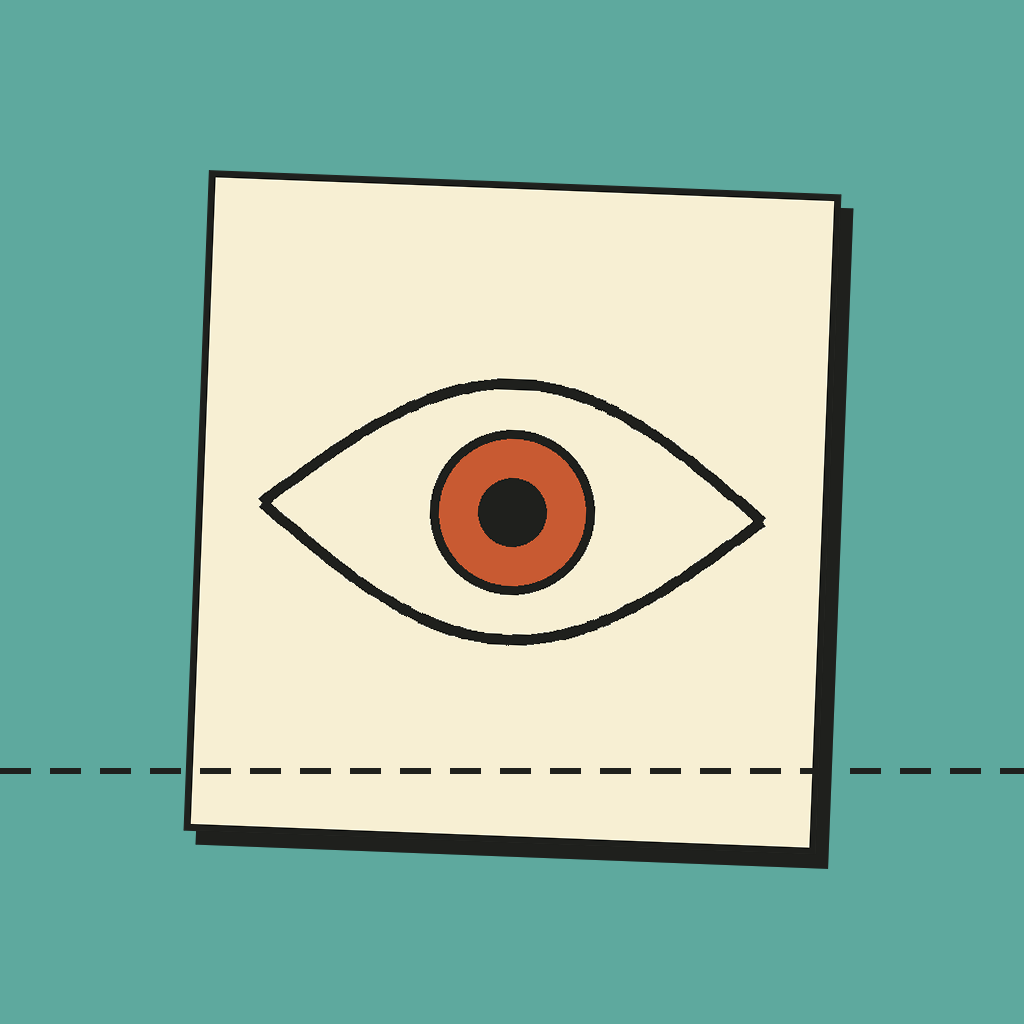
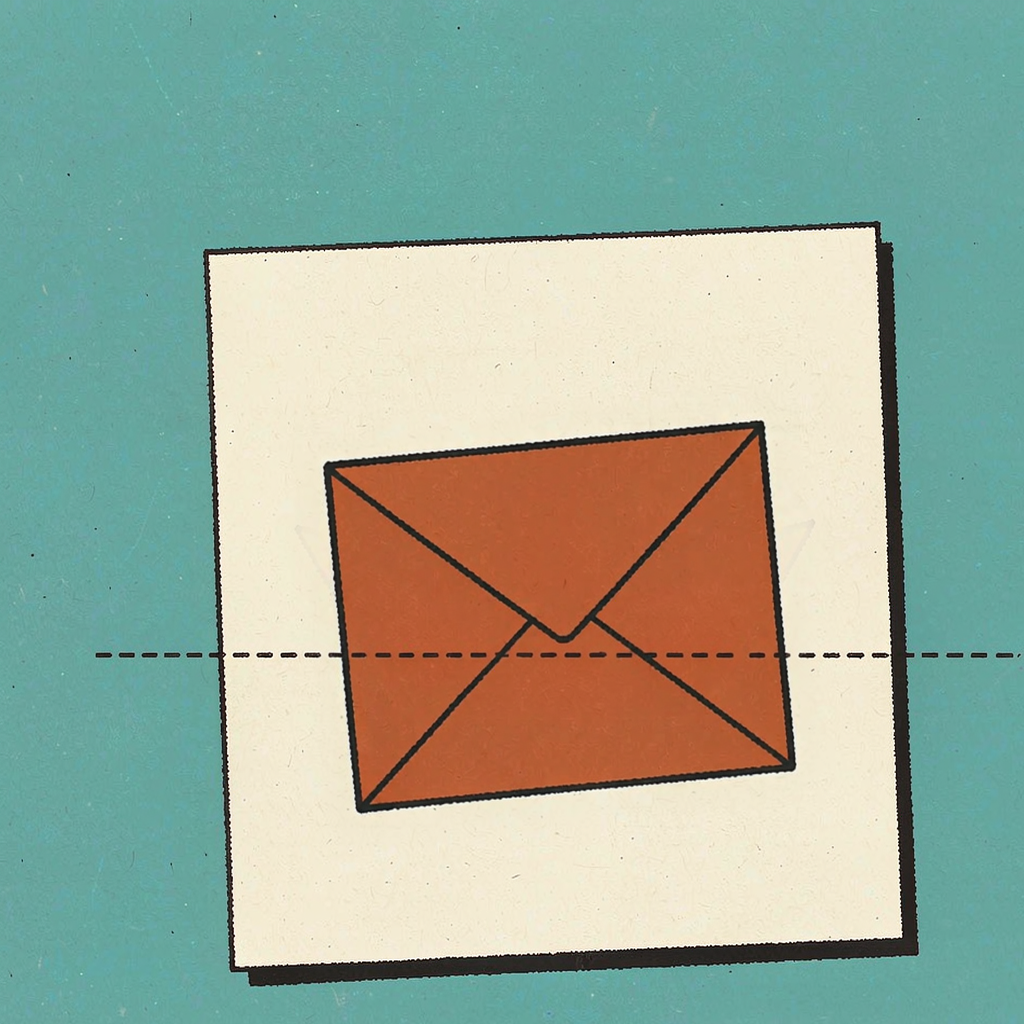
BCM241 polish: swap A4 cover to envelope, split FIG.01 into three plates, embed A3 video in A4, relabel A3 as A2.2

diff --git a/content.js b/content.js
@@ -971,7 +971,7 @@ const SUBJECTS = {
         },
         date: '2026-11-05',
         tags: [
-          { en: 'BCM241 A2', zh: 'BCM241 A2' },
+          { en: 'BCM241 A2.2', zh: 'BCM241 A2.2' },
           { en: 'Blog Post 2', zh: '部落格貼文 2' },
           { en: 'Autoethnography', zh: '自我民族誌' },
         ],
@@ -1125,7 +1125,7 @@ const SUBJECTS = {
         /* 同 bcm241 前三篇：文章頁不渲染開場主圖；image 只供科目頁卡片縮圖。 */
         noHero: true,
         image: 'assets/posts/bcm241-a4-cover.png',
-        figLabel: { en: 'COVER — The ethnographic gaze', zh: '封面圖 — 民族誌的注視' },
+        figLabel: { en: 'COVER — Report submitted', zh: '封面圖 — 報告已交付' },
         body: [
           { type: 'h2', text: { en: 'Introduction', zh: '導論' } },
           {
@@ -1143,18 +1143,47 @@ const SUBJECTS = {
               zh: '為了在這個領域建立可信度，我在抖音、小紅書與微信視頻號上建構了一個統一的線上人格「紙上麥哲倫」。三個頻道共用一致的視覺識別：奶油色漫畫封面，粗黑標題壓在黃色重點上。自介把帳號定位成一位清晰、專業的同儕觀察者，用「一杯咖啡的時間」講清跨境邏輯，不做誇大的推銷。以 Moore、Barbour 與 Lee（2017）的線上人格五個維度來看，這個身分是刻意公開、媒介化且表演性的，同時又因邀請同儕一起學習而帶有集體性。它與我日常的社群使用形成強烈對比：私人生活裡我只是被動地滑影片找樂子，從不去想訊息是怎麼被建構出來的；但當我以「紙上麥哲倫」運作時，我得主動拆解視覺節奏、聲音提示與腳本韻律，把複雜的 B2B 概念轉譯成觀眾容易入口的故事。',
             },
           },
+          /* ·42：原稿 Figure 1 是三平台主頁「極寬拼圖」（1800×348），
+             網站上縮到版心後每格只剩一百多像素、字全糊。Master 改提供三張
+             獨立截圖，拆成三張各自鋪滿版心的 wide 圖，圖號順延為 01–03，
+             原 Figure 2/3 改 04/05。三張共用同一句統一識別的說明。 */
           {
-            /* 原稿 Figure 1：三平台主頁拼圖，極寬（1800×348）→ wide。 */
             type: 'figure',
             wide: true,
-            src: 'assets/posts/bcm241-a4-fig1.png',
+            src: 'assets/posts/bcm241-a4-fig1-douyin.png',
             alt: {
-              en: 'Three "Paper Magellan" creator homepages side by side: Douyin on the left with a dark grid of comic covers, WeChat Video in the middle with a light grid, and Xiaohongshu on the right with account analytics and a note list. All three share the same cream comic covers and bold black titles.',
-              zh: '三個「紙上麥哲倫」創作者主頁並排：左為抖音的深色漫畫封面網格，中為微信視頻號的淺色網格，右為小紅書的帳號數據與筆記列表；三者共用相同的奶油色漫畫封面與粗黑標題。',
+              en: 'Douyin creator homepage for "Paper Magellan": a dark grid of cream comic covers with bold black titles, with follower and like counts above.',
+              zh: '抖音「紙上麥哲倫」創作者主頁：深色背景上的奶油色漫畫封面網格與粗黑標題，上方為粉絲與按讚數據。',
             },
             caption: {
-              en: 'FIG.01 — Unified "Paper Magellan" creator profiles across Douyin, Xiaohongshu, and WeChat Video.',
-              zh: 'FIG.01 — 「紙上麥哲倫」在抖音、小紅書與微信視頻號上統一的創作者主頁。',
+              en: 'FIG.01 — "Paper Magellan" creator homepage on Douyin: a dark grid of comic covers with matching titles.',
+              zh: 'FIG.01 — 抖音上的「紙上麥哲倫」創作者主頁：深色網格中一致的漫畫封面與標題。',
+            },
+          },
+          {
+            type: 'figure',
+            wide: true,
+            src: 'assets/posts/bcm241-a4-fig1-xhs.png',
+            alt: {
+              en: 'Xiaohongshu creator homepage for "Paper Magellan": a light grid of the same cream comic covers, with profile details and note counts above.',
+              zh: '小紅書「紙上麥哲倫」創作者主頁：淺色背景上同一套奶油色漫畫封面，上方為帳號資料與筆記數。',
+            },
+            caption: {
+              en: 'FIG.02 — The same persona on Xiaohongshu: identical covers carried across to a light-themed profile.',
+              zh: 'FIG.02 — 小紅書上的同一個身分：相同封面延伸到淺色主題的個人主頁。',
+            },
+          },
+          {
+            type: 'figure',
+            wide: true,
+            src: 'assets/posts/bcm241-a4-fig1-wechat.png',
+            alt: {
+              en: 'WeChat Video creator centre for "Paper Magellan": account overview and yesterday\'s data, including new followers, plays, likes and comments.',
+              zh: '微信視頻號「紙上麥哲倫」創作者中心：帳號概覽與昨日數據，包含淨增關注、新增播放、點讚與評論。',
+            },
+            caption: {
+              en: 'FIG.03 — WeChat Video creator centre: the third channel of the same persona, with its own audience metrics.',
+              zh: 'FIG.03 — 微信視頻號創作者中心：同一身分的第三個頻道，附獨立觀眾數據。',
             },
           },
           { type: 'h2', text: { en: 'Key Epiphanies', zh: '關鍵頓悟' } },
@@ -1190,8 +1219,8 @@ const SUBJECTS = {
               zh: '小紅書創作服務平台的帳號診斷（11/10–11/16）：觀看數 3,990、互動 212、漲粉 36、主頁訪客 42、發布 3 篇，多項超過 99% 同類創作者；下方筆記數據顯示曝光 1.4 萬、封面點擊率 12.6%、平均觀看 41 秒、觀看總時長 31.1 小時。',
             },
             caption: {
-              en: 'FIG.02 — Xiaohongshu creator analytics dashboard confirming strong cover click-through and peer-leading engagement.',
-              zh: 'FIG.02 — 小紅書創作者後台，印證封面點擊率與領先同儕的互動表現。',
+              en: 'FIG.04 — Xiaohongshu creator analytics dashboard confirming strong cover click-through and peer-leading engagement.',
+              zh: 'FIG.04 — 小紅書創作者後台，印證封面點擊率與領先同儕的互動表現。',
             },
           },
           {
@@ -1233,8 +1262,8 @@ const SUBJECTS = {
               zh: '後台列出四支影片的逐片數據：〈逃命滑板〉1,596 播放、6.72% 完播、35.81% 兩秒跳出；〈一星負評〉5,372 播放、12.26%、32.4%；〈放棄亞馬遜改做 DTC〉591 播放、1.09%、51.22%；〈只做 100 件？〉4,986 播放、4.43%、41.01%。各片的收藏、分享與吸粉量差異明顯。',
             },
             caption: {
-              en: 'FIG.03 — Video-level backend retention and bounce rate comparison used to diagnose pacing and opening hooks.',
-              zh: 'FIG.03 — 逐支影片的後台完播率與跳出率對比，用來診斷節奏與開場鉤子。',
+              en: 'FIG.05 — Video-level backend retention and bounce rate comparison used to diagnose pacing and opening hooks.',
+              zh: 'FIG.05 — 逐支影片的後台完播率與跳出率對比，用來診斷節奏與開場鉤子。',
             },
           },
           {
@@ -1330,6 +1359,24 @@ const SUBJECTS = {
             note: {
               en: 'Explains the fast, recognizable rhythms that short-video communicative forms rely on.',
               zh: '解釋短影片溝通形式為何依賴快速、可辨識的節奏。',
+            },
+          },
+          /* ·42：Master 提供 BCM241 A3 提交影片的 YouTube 內嵌碼（视频标题
+             BCM241_a3_WangWingShing_1723674），放在文末放映區、AI 聲明之前。
+             沿用 embed 白名單 + id 正則校驗；VIDEO.01 不與 FIG.01–05 撞號。 */
+          {
+            type: 'embed',
+            provider: 'youtube',
+            id: 'GsRsTRQqPJQ',
+            poster: 'assets/posts/bcm241-a4-cover.webp',
+            title: {
+              en: 'BCM241 A3 submission video — Wang Wing Shing (1723674)',
+              zh: 'BCM241 A3 提交影片 — 學生 1723674',
+            },
+            captionStyle: 'note',
+            caption: {
+              en: 'VIDEO.01 — My BCM241 Assessment 3 submission video, presented alongside the contextual report and the three platform profiles above.',
+              zh: '影片 01 — 我的 BCM241 第三次評量提交影片，與上方情境研究報告及三個平台主頁一併呈現。',
             },
           },
           {

diff --git a/article.css b/article.css
@@ -1893,6 +1893,12 @@ html[lang^="zh"] .mx-ylabel { transform: none; }
     background: #111 url('assets/posts/bcm206-a2-nodes.webp') center / cover no-repeat;
 }
 
+/* ·42：一般放映區（無片單）也可指定本篇封面當「放映前幕布」，
+   YouTube 不可達時不是死黑框。用 .has-poster 與合集底圖區分。 */
+.embed-block.has-poster > .video-frame {
+    background: #111 url('assets/posts/bcm241-a4-cover.webp') center / cover no-repeat;
+}
+
 .embed-block.is-compilation > .embed-tracks > li {
     display: flex;
     flex-direction: column;

diff --git a/article-page.js b/article-page.js
@@ -858,7 +858,8 @@
     var head = '<span class="embed-head">' + esc(headText) + '</span>'
       + (hasTracks ? renderTracklist(block, util) : '');
 
-    return mediaFrame('embed-block video-block' + (hasTracks ? ' is-compilation' : ''),
+    return mediaFrame('embed-block video-block' + (hasTracks ? ' is-compilation' : '')
+      + (block.poster ? ' has-poster' : ''),
       inner, block.caption, util, head, block.captionStyle);
   }
 
